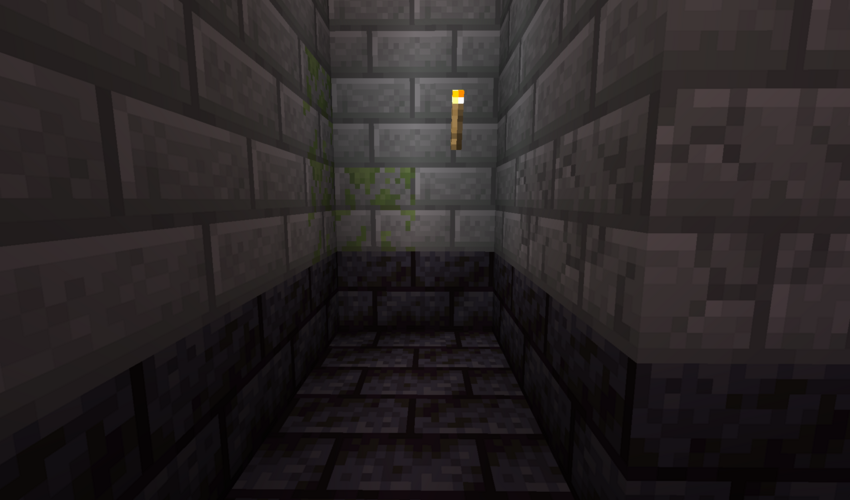
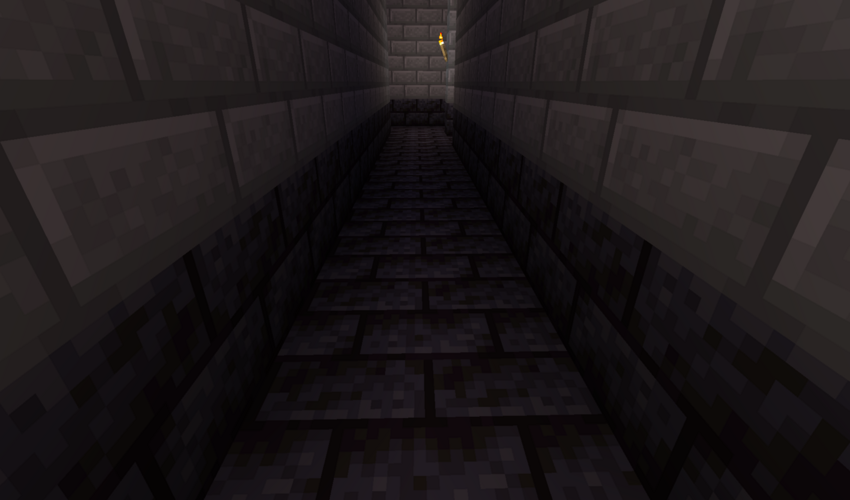
Some areas added and some adjustment

diff --git a/ProgettoPCTO/Gameplay.cs b/ProgettoPCTO/Gameplay.cs
@@ -70,7 +70,7 @@ namespace ProgettoPCTO
             _situations["area1"] = new Situation(URL: @"~\Img\Areas\area1.png")
             {
                 Name = "ingresso",
-                Description = "Benvenuto, da qui inizia la tua avventura.\nClicca su Steve per sapere come giocare.\n",
+                Description = "Benvenuto, da qui inizia la tua avventura.\n",
                 Actions = new List<string> { "Parla con Steve" },
                 Areas = new string[]
                 {
@@ -86,20 +86,20 @@ namespace ProgettoPCTO
                     new Character(URL: @"~\Img\Characters\steve.png")
                     {
                         Name = "Steve",
-                        Description = "Hai incontrato Steve, clicca su di lui per scoprire cosa vuole dirti.",
+                        Description = "Parla con lui per scoprire cosa vuole dirti.",
                         X = 320,
                         Y = 160,
                         Width = 110,
                         Height = 230,
                         Dialogue = new Dictionary<string, string>()
                         {
-                            {"area1", "Io sono Steve e sarò la tua guida per le prime parti di questa avventura. Adesso ti spiegherò come " + 
+                            {"area1", "\"Io sono Steve e sarò la tua guida per le prime parti di questa avventura. Adesso ti spiegherò come " + 
                             "utilizzare l'interfaccia:\n- puoi muoverti nel gioco con i pulsanti in basso a sinistra in cui sono indicati i nomi " +
                             "degli ambienti che puoi raggiungere. Alcuni passaggi saranno chiusi e ti serviranno degli oggetti per poterli aprire.\n"+
                             "- Potrai trovare oggetti nella tua strada, alcuni ti permetteranno di aprire passaggi e altri ti proteggeranno. Un oggetto "+
                             "può essere messo nell'inventario cliccandoci sopra, se questo non è già pieno; se dovesse esserlo, potrai scegliere " +
                             "un oggetto da lasciare. Gli oggetti scompaiono se lasciati, quindi fai attenzione!\n"+
-                            "- Incontrerai delle entità nel tuo cammino, alcune amiche, altre nemiche, scoprirai cosa vogliono da te."},
+                            "- Incontrerai delle entità nel tuo cammino, alcune amiche, altre nemiche, scoprirai cosa vogliono da te.\""},
                         }
                     }
                 },
@@ -108,7 +108,7 @@ namespace ProgettoPCTO
             _situations["area2"] = new Situation(URL: @"~\Img\Areas\area2.png")
             {
                 Name = "interno",
-                Areas = new string[] { "area3", null, "area1", null },
+                Areas = new string[] { "area3", null, "area1", "area2a" },
                 Actions = new List<string>()
                 {
                     "Raccogli la spada", "Uccidi il creeper", 
@@ -119,11 +119,11 @@ namespace ProgettoPCTO
                     new Character(URL: @"~\Img\Characters\creeper.png")
                     {
                         Name = "Creeper",
-                        Description = "Hai incontrato creeper! Uccidilo con la spada.",
-                        X = 150,
-                        Y = 100,
-                        Width = 100,
-                        Height = 90,
+                        Description = "Uccidilo con la spada.",
+                        X = 250,
+                        Y = 160,
+                        Width = 220,
+                        Height = 230,
                         Dialogue = new Dictionary<string, string>()
                         {
                             {"area2", "Hai ucciso il creeper!\n" }
@@ -139,9 +139,9 @@ namespace ProgettoPCTO
                     new Item(URL: @"~\Img\Items\sword.png")
                     {
                         Name = "Spada",
-                        Description = "Qui c'è una spada. Usala per uccidere i tuoi nemici.",
-                        X = 340,
-                        Y = 230,
+                        Description = "Usala per uccidere i tuoi nemici.",
+                        X = 440,
+                        Y = 360,
                         Width = 100,
                         Height = 90,
                         Dialogue = new Dictionary<string, string>()
@@ -152,6 +152,34 @@ namespace ProgettoPCTO
                     }
                 }
 
+            };
+
+            _situations["area2a"] = new Situation(URL: @"~\Img\Areas\area2a.png")
+            {
+                Name = "vicolo cieco",
+                Description = "L'unica soluzione è tornare indietro...\n",
+                Areas = new string[] { null, null, "area2", null },
+                Actions = new List<string>()
+                {
+                    "Raccogli la pozione della salute",
+                },
+                Items = new List<Item>()
+                {
+                    new Item(URL: @"~\Img\Items\healthpotion.png")
+                    {
+                        Name = "Pozione della salute",
+                        Description = "Restituisce 30 punti salute!",
+                        X = 200,
+                        Y = 300,
+                        Width = 60,
+                        Height = 60,
+                        IsCollectable = true,
+                        Dialogue = new Dictionary<string, string>()
+                        {
+                            { "area2a", "Hai aggiunto Poziona della salute al tuo inventario.\n" }
+                        }
+                    }
+                }
             };
 
             _situations["area3"] = new Situation(URL: @"~\Img\Areas\area3.png")
@@ -165,13 +193,20 @@ namespace ProgettoPCTO
             {
                 Name = "bivio",
                 Description = "Dove vuoi andare ora?",
-                Areas = new string[] { "area5", null, "area3", null }
+                Areas = new string[] { "area5a", null, "area3", "area5" }
             };
 
             _situations["area5"] = new Situation(URL: @"~\Img\Areas\area5.png")
             {
+                Name = "corridoio",
+                Description = "Prosegui dritto.\n",
+                Areas = new string[] { null, null, "area4", null },
+            };
+
+            _situations["area5a"] = new Situation(URL: @"~\Img\Areas\area5a.png")
+            {
                 Name = "vicolo cieco",
-                Description = "L'unica possibilità è tornare indietro...",
+                Description = "L'unica possibilità è tornare indietro...\n",
                 Areas = new string[] { null, null, "area4", null },
             };
         }

diff --git a/ProgettoPCTO/Default.aspx.cs b/ProgettoPCTO/Default.aspx.cs
@@ -84,8 +84,6 @@ namespace ProgettoPCTO
                 txtStory.Text += "Hai raggiunto " + s.Name + "\n";
                 txtStory.Text += s.Description;
 
-                // Update the current area ID
-                _currentAreaID = name;
             }
 
             drpActions.Items.Clear();
@@ -112,6 +110,10 @@ namespace ProgettoPCTO
                 }
             }
 
+            // Showing stats
+            lblExperience.Text = "Esperienza: " + _player.Experience;
+            lblHealth.Text = "Salute: " + _player.Health;
+
 
             // Loading all entities in the situation if there are
             if (s.Entities != null)
@@ -120,6 +122,8 @@ namespace ProgettoPCTO
                     if (e.IsVisible)
                     {
                         pnlImages.Controls.Add(_game.SetEntityImage(e));
+                        if (_currentAreaID != name)
+                            txtStory.Text += "Hai incontrato " + e.Name + ". " + e.Description + "\n";
                     }
                 }
 
@@ -130,8 +134,14 @@ namespace ProgettoPCTO
                     if (i.IsVisible)
                     {
                         pnlImages.Controls.Add(_game.SetEntityImage(i));
+                        if (_currentAreaID != name)
+                            txtStory.Text += "Hai trovato " + i.Name + ". " + i.Description + "\n";
                     }
                 }
+
+            if (_currentAreaID != name)
+                // Update the current area ID
+                _currentAreaID = name;
 
             // Save the parameters
             Session["currentArea"] = _currentAreaID;
@@ -203,6 +213,10 @@ namespace ProgettoPCTO
                 {
                     hostile.IsVisible = false;
                     _player.Experience += 50;
+                    _player.Health -= 5;
+
+                    lblExperience.Text = "Esperienza: " + _player.Experience;
+                    lblHealth.Text = "Salute: " + _player.Health;
 
                     // Removes the enemy from the panel and from the situation
                     _game[_currentAreaID].Entities.Remove(hostile);

diff --git a/ProgettoPCTO/Class/Player.cs b/ProgettoPCTO/Class/Player.cs
@@ -17,6 +17,7 @@ namespace ProgettoPCTO
         public Player(string URL) : base(URL)
         {
             Inventory = new Dictionary<string, Item>();
+            Health = 100;
         }
 
         [DataMember]
